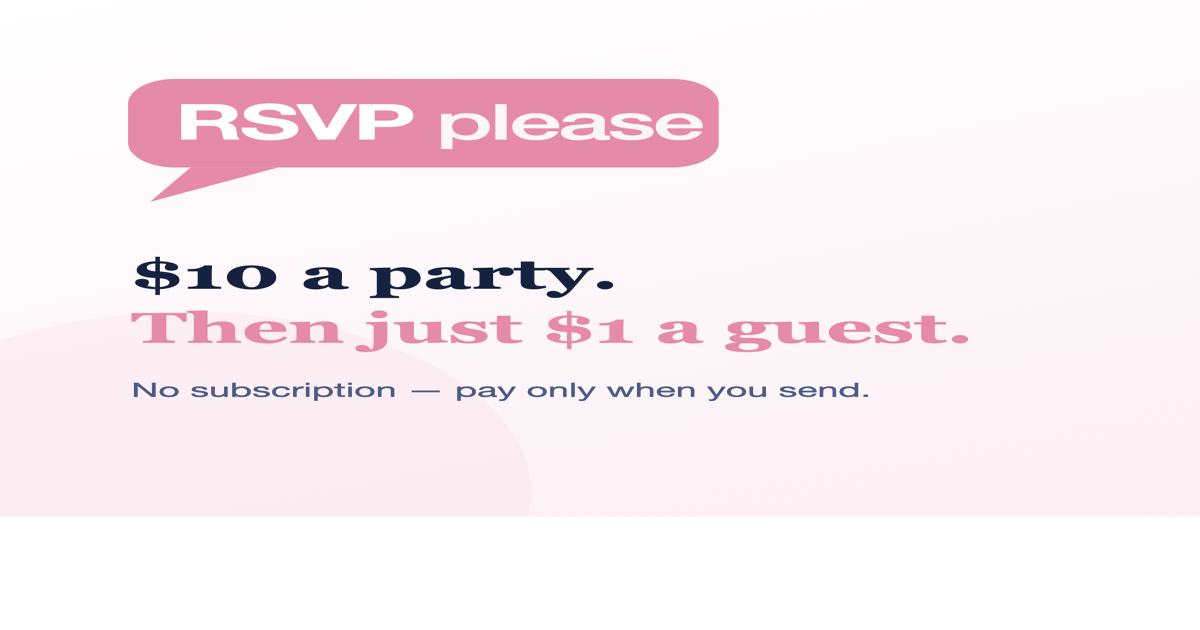
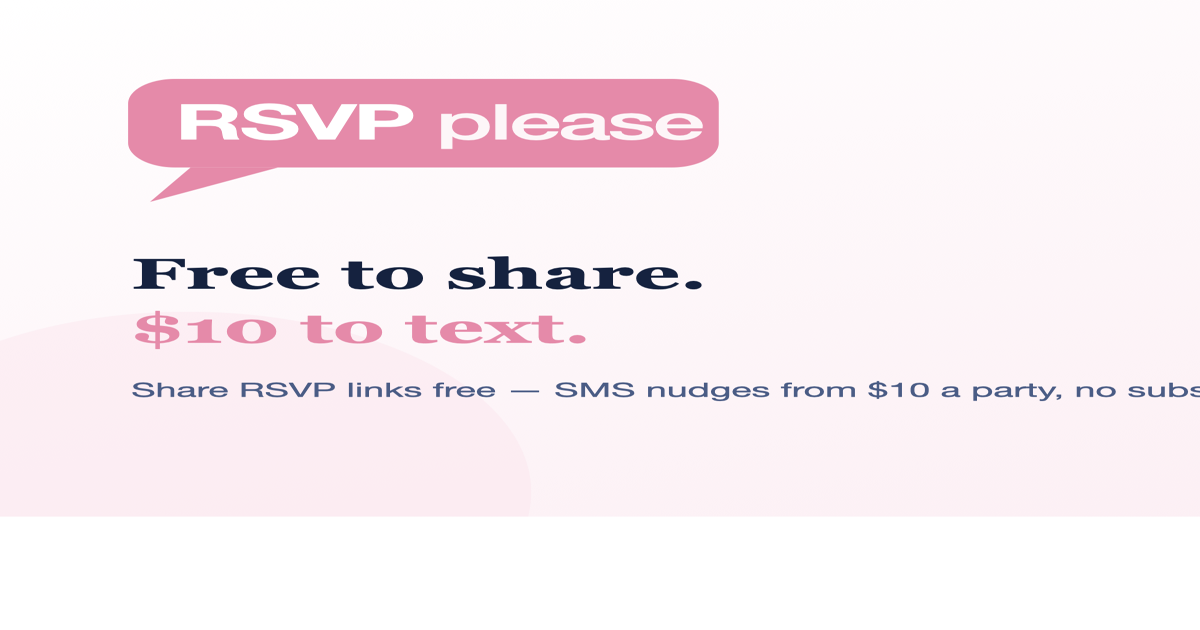
OG + homepage meta: lead with "free" (drop stale "$10 per event")
- Regenerate default og.png: "Free to start · Just share a link ·
  every guest gets a link to RSVP · SMS nudges from $10"
- Homepage title/description now free-first; og:image ?v=2 to nudge
  scrapers to refetch the new image
- og-how / og-pricing images reworded to the free-first model

Changed region(s): [[0.0925, 0.3921, 0.8017, 0.573], [0.0925, 0.6032, 1.0, 0.6333]]

diff --git a/index.html b/index.html
@@ -3,8 +3,8 @@
 <head>
   <meta charset="utf-8" />
   <meta name="viewport" content="width=device-width, initial-scale=1" />
-  <title>RSVPplease — RSVP invitations by text &amp; email</title>
-  <meta name="description" content="Send RSVP links by SMS or email, track who's coming, and auto-nudge the no-shows. $10 per event — no subscription." />
+  <title>RSVPplease — free RSVP invitations by text &amp; email</title>
+  <meta name="description" content="Create an invite and share a unique RSVP link with every guest — free. They tap to say if they're coming. Want a real headcount? Add SMS nudges from $10." />
   <link rel="canonical" href="https://rsvpplease.app/" />
   <link rel="icon" href="assets/img/logo.svg" />
   <link rel="apple-touch-icon" href="assets/img/apple-touch-icon.png" />
@@ -13,16 +13,16 @@
   <meta property="og:type" content="website" />
   <meta property="og:site_name" content="RSVPplease" />
   <meta property="og:url" content="https://rsvpplease.app/" />
-  <meta property="og:title" content="RSVPplease — RSVP invitations by text &amp; email" />
-  <meta property="og:description" content="Send RSVP links by SMS or email, track who's coming, and auto-nudge the no-shows. $10 per event — no subscription." />
-  <meta property="og:image" content="https://rsvpplease.app/assets/img/og.png" />
+  <meta property="og:title" content="RSVPplease — free RSVP invitations by text &amp; email" />
+  <meta property="og:description" content="Create an invite and share a unique RSVP link with every guest — free. They tap to say if they're coming. Want a real headcount? Add SMS nudges from $10." />
+  <meta property="og:image" content="https://rsvpplease.app/assets/img/og.png?v=2" />
   <meta property="og:image:type" content="image/png" />
   <meta property="og:image:width" content="1200" />
   <meta property="og:image:height" content="630" />
   <meta name="twitter:card" content="summary_large_image" />
-  <meta name="twitter:title" content="RSVPplease — RSVP invitations by text &amp; email" />
-  <meta name="twitter:description" content="Send RSVP links by SMS or email, track who's coming, and auto-nudge the no-shows. $10 per event — no subscription." />
-  <meta name="twitter:image" content="https://rsvpplease.app/assets/img/og.png" />
+  <meta name="twitter:title" content="RSVPplease — free RSVP invitations by text &amp; email" />
+  <meta name="twitter:description" content="Create an invite and share a unique RSVP link with every guest — free. They tap to say if they're coming. Want a real headcount? Add SMS nudges from $10." />
+  <meta name="twitter:image" content="https://rsvpplease.app/assets/img/og.png?v=2" />
   <link rel="preconnect" href="https://fonts.googleapis.com" />
   <link rel="preconnect" href="https://fonts.gstatic.com" crossorigin />
   <link href="https://fonts.googleapis.com/css2?family=Fraunces:opsz,wght@9..144,400;9..144,500;9..144,600;9..144,700&family=Hanken+Grotesk:wght@400;500;600;700;800&display=swap" rel="stylesheet" />